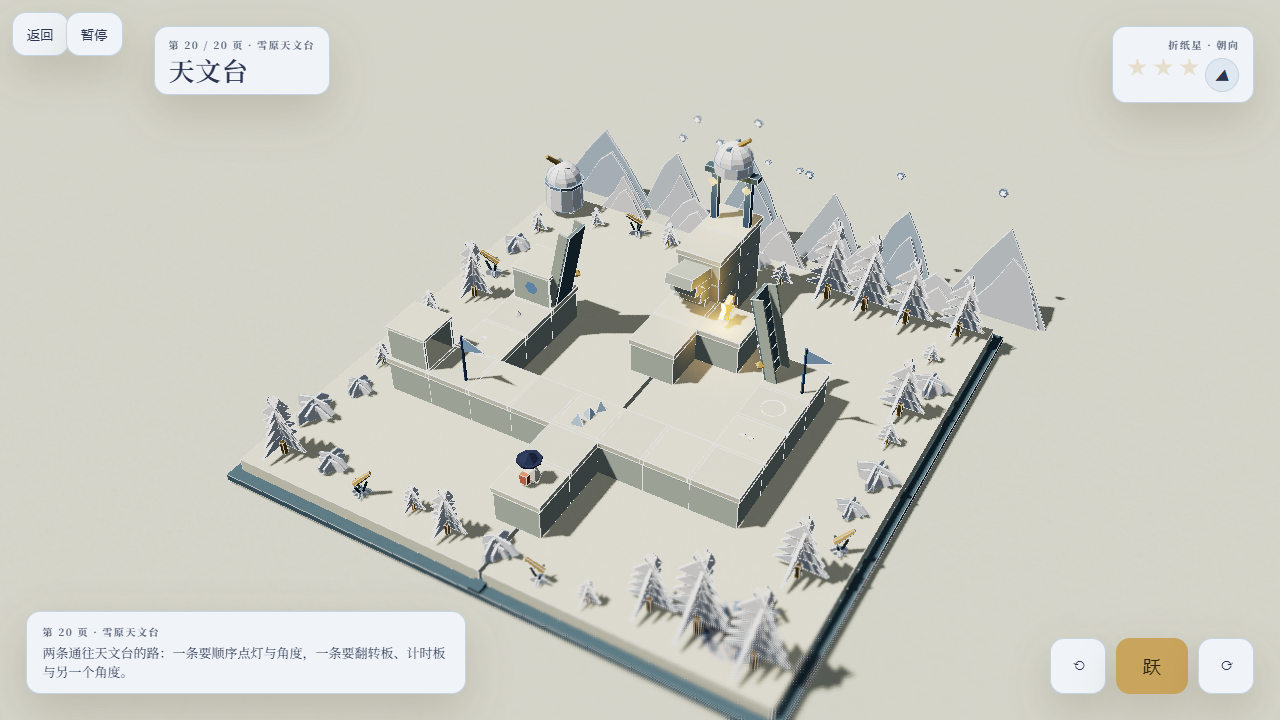
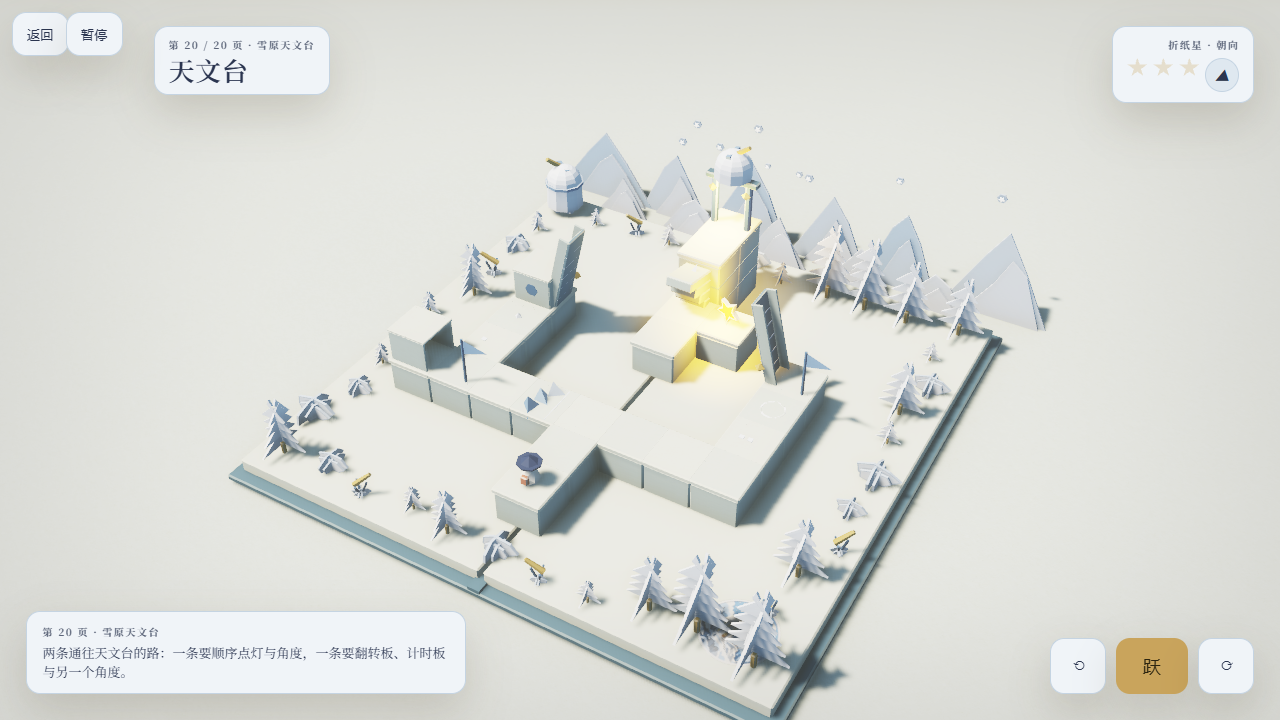
纸境立体书：补 PlayCanvas 产物断言、第 8 关真实按键浏览器测试，更新三张固定截图

Changed region(s): [[0.1562, 0.1833, 0.8438, 1.0]]

diff --git a/tests/paper-popup-quality.test.ts b/tests/paper-popup-quality.test.ts
@@ -118,6 +118,20 @@ test("纸境 3D 产物：popup 模式生成不可变产物并通过静态探针"
     assert.match(script, /function createPaperPopupRules\(\)/);
     assert.match(script, /prefers-reduced-motion/);
     assert.doesNotMatch(script, /new THREE\.Sprite\(/, "禁止位图立牌充当 3D 物体");
+    // 渲染层已切到 PlayCanvas：引擎单文件 ESM 随产物一起交付，页面只从相对路径 import，不再引用 Three.js，也不从网络加载任何东西。
+    assert.equal(manifest.engine, "playcanvas");
+    assert.match(manifest.engineVersion, /^\d+\.\d+\.\d+$/);
+    assert.equal(manifest.engineLicense, "MIT");
+    assert.match(script, /^import \* as pc from "\.\/vendor\/playcanvas\.module\.js";/);
+    assert.doesNotMatch(script, /THREE\./);
+    assert.doesNotMatch(script, /https?:\/\//, "运行时不得从网络加载引擎或资源");
+    assert.ok(statSync(join(root, "vendor", "playcanvas.module.js")).size > 1_000_000, "PlayCanvas 单文件 ESM 构建应随产物交付");
+    assert.ok(existsSync(join(root, "vendor", "PLAYCANVAS-LICENSE.md")));
+    assert.match(readFileSync(join(root, "_studio", "OPEN_SOURCE_ATTRIBUTION.md"), "utf8"), /PlayCanvas[\s\S]*MIT/);
+    assert.ok(existsSync(resolve("third_party", "playcanvas-LICENSE.md")));
+    const provenance = JSON.parse(readFileSync(join(root, "_studio", "THREE_ASSET_PROVENANCE.json"), "utf8"));
+    assert.equal(provenance.engine.name, "PlayCanvas");
+    assert.equal(provenance.engine.version, manifest.engineVersion);
     assert.doesNotMatch(`${html}\n${script}`, /<svg|\.svg/i);
     assert.match(html, /data-key="jump"/);
     assert.match(html, /data-key="cw"/);
